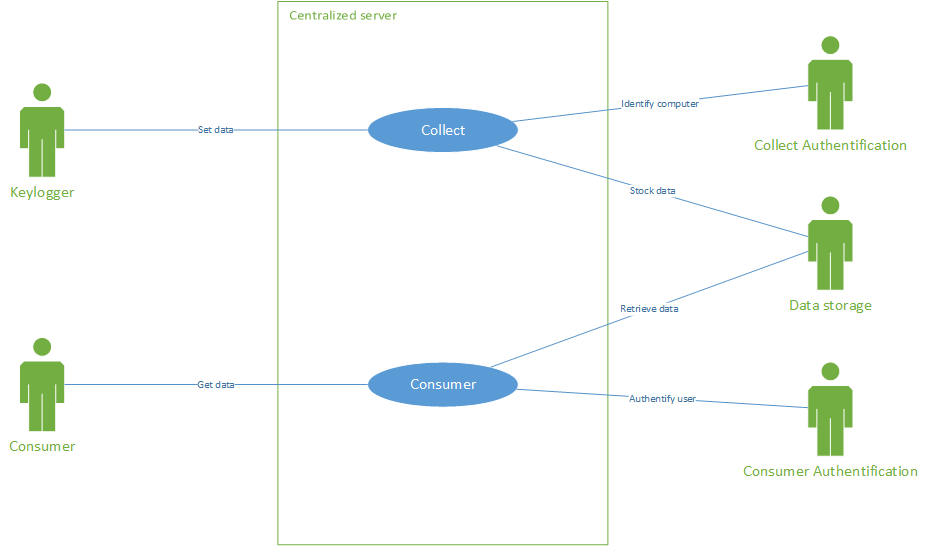
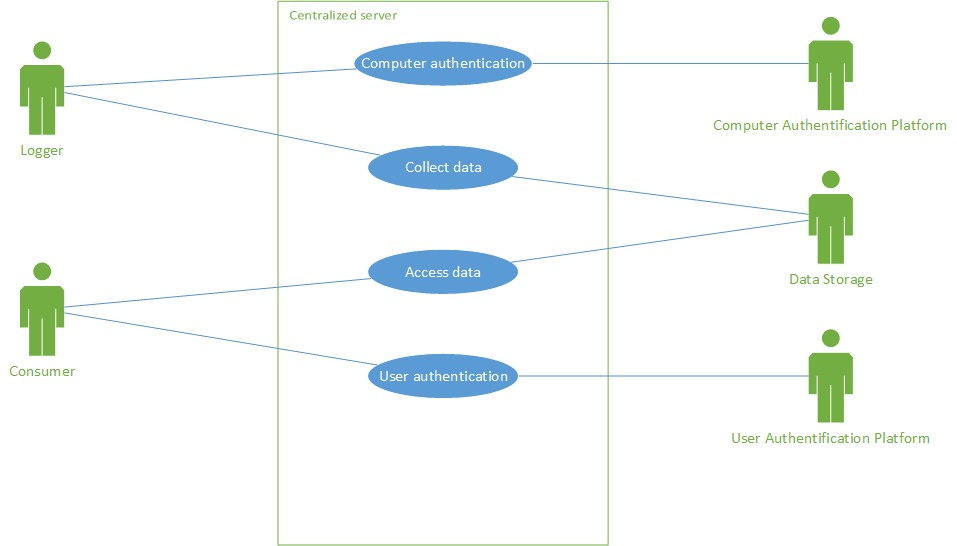
Modify Server User Case

diff --git a/R1/Functional/Centralized-Server/Centralized-server-functional-requirement-specifications.md b/R1/Functional/Centralized-Server/Centralized-server-functional-requirement-specifications.md
@@ -2,8 +2,8 @@
 
 ## Introduction
 
-This document describes the centralized server functional specifications. The server collects Keylogger's data and provide a secure access to this data.
-For this, the server is composed by two main components, the collector and the consumer. 
+This document describes the centralized server functional specifications. The server collects Logger's data and provide a secure access to this data for a Consumer.
+For this, the server is composed by two main components, the collector and the consumer.
 
 ## Use case
 
@@ -13,11 +13,13 @@ For this, the server is composed by two main components, the collector and the c
 
 ### Install
 
-Coming Soon
+Coming Soon  
 
 ### Collector API
 
-This API is WebService to collect, adjust and store data from an external keylogger.
+This API is WebService to collect, adjust and store data from an external Logger.
+
+![Keylogger - use cases](diagrams/UML - Activity - Collector.png)
 
 ### Consumer API
 
